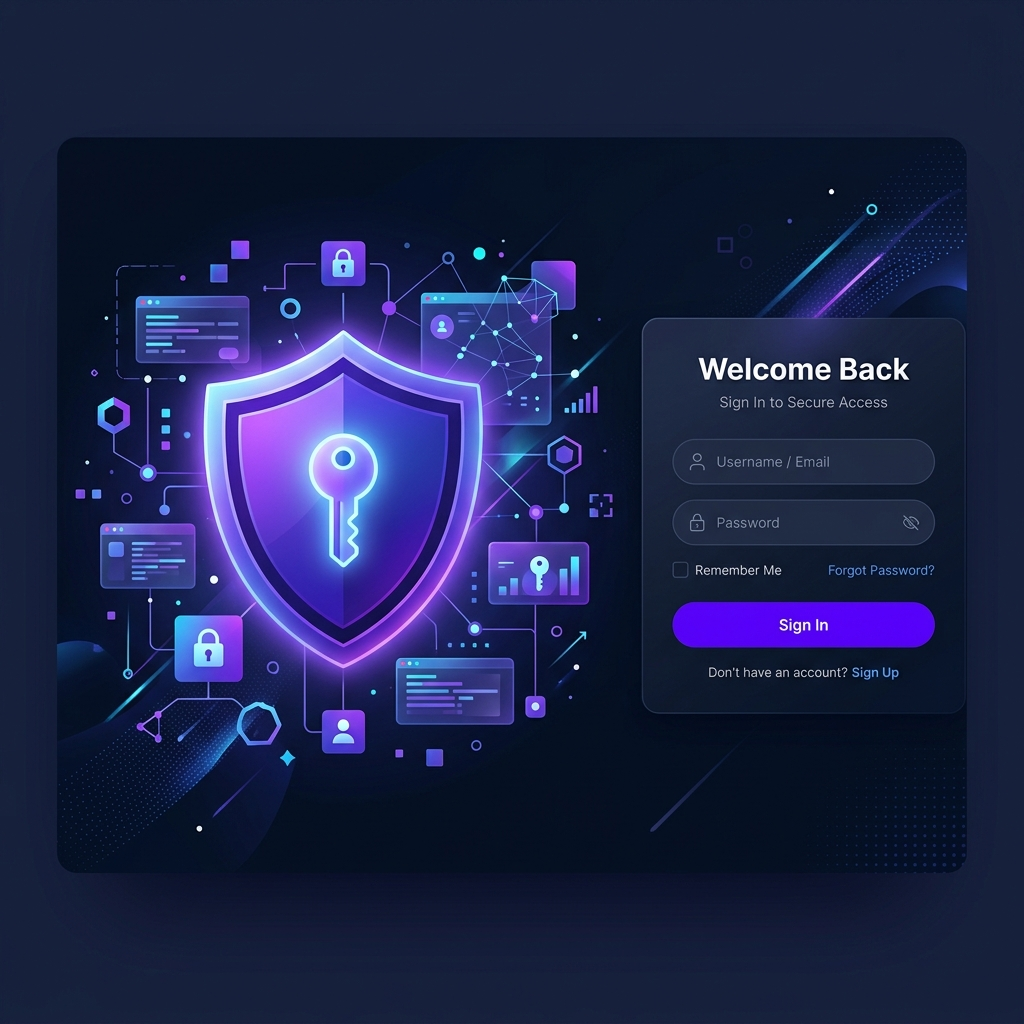
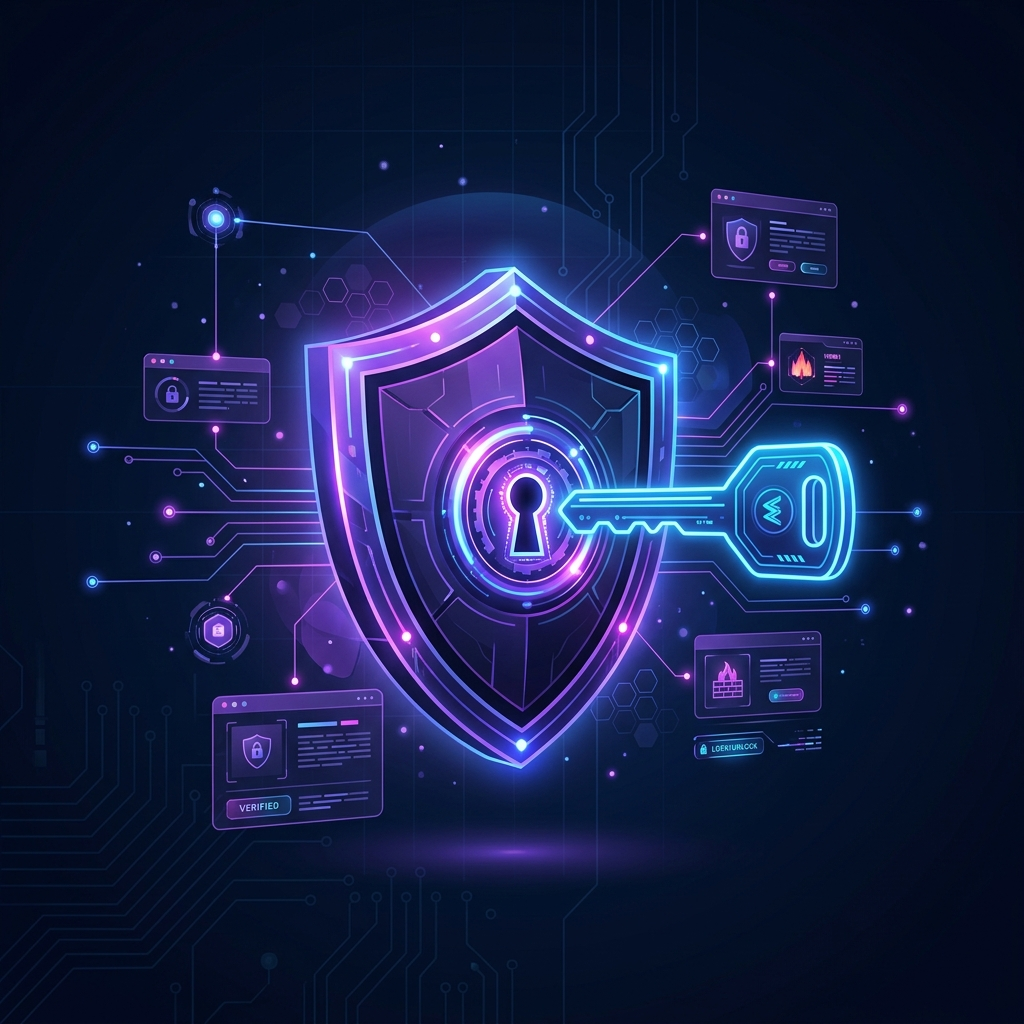
Initial frontend commit with updated UI

diff --git a/src/pages/RegisterPage.jsx b/src/pages/RegisterPage.jsx
@@ -79,7 +79,7 @@ const RegisterPage = () => {
                   Create Your Workspace
                 </Typography>
                 <Typography variant="body1" color="text.secondary">
-                  Join thousands of teams scaling with AI-powered agility.
+                  Get started and organize your team's projects.
                 </Typography>
               </Box>
 
@@ -189,10 +189,10 @@ const RegisterPage = () => {
             }}>
               <Box component="img" src="/assets/register_welcome.png" sx={{ width: '85%', height: 'auto', borderRadius: 3, mb: 4 }} />
               <Typography variant="h4" fontWeight="900" textAlign="center" gutterBottom sx={{ letterSpacing: '-1px' }}>
-                Build the Future.
+                Start Building.
               </Typography>
               <Typography variant="body1" color="text.secondary" textAlign="center" sx={{ maxWidth: 350 }}>
-                From idea to execution, Sprintora provides the tools you need to ship faster and smarter.
+                Sprintora provides the tools you need to manage your tasks from idea to execution.
               </Typography>
             </Grid>
           )}

diff --git a/src/pages/LoginPage.jsx b/src/pages/LoginPage.jsx
@@ -98,10 +98,10 @@ const LoginPage = () => {
             }}>
               <Box component="img" src="/assets/login_auth.png" sx={{ width: '80%', height: 'auto', borderRadius: 3, mb: 4 }} />
               <Typography variant="h4" fontWeight="900" textAlign="center" gutterBottom sx={{ letterSpacing: '-1px' }}>
-                Manage with Precision.
+                Welcome Back.
               </Typography>
               <Typography variant="body1" color="text.secondary" textAlign="center" sx={{ maxWidth: 350 }}>
-                Log in to your AI-powered workspace and pick up exactly where you left off.
+                Log in to your workspace and pick up where you left off.
               </Typography>
             </Grid>
           )}
